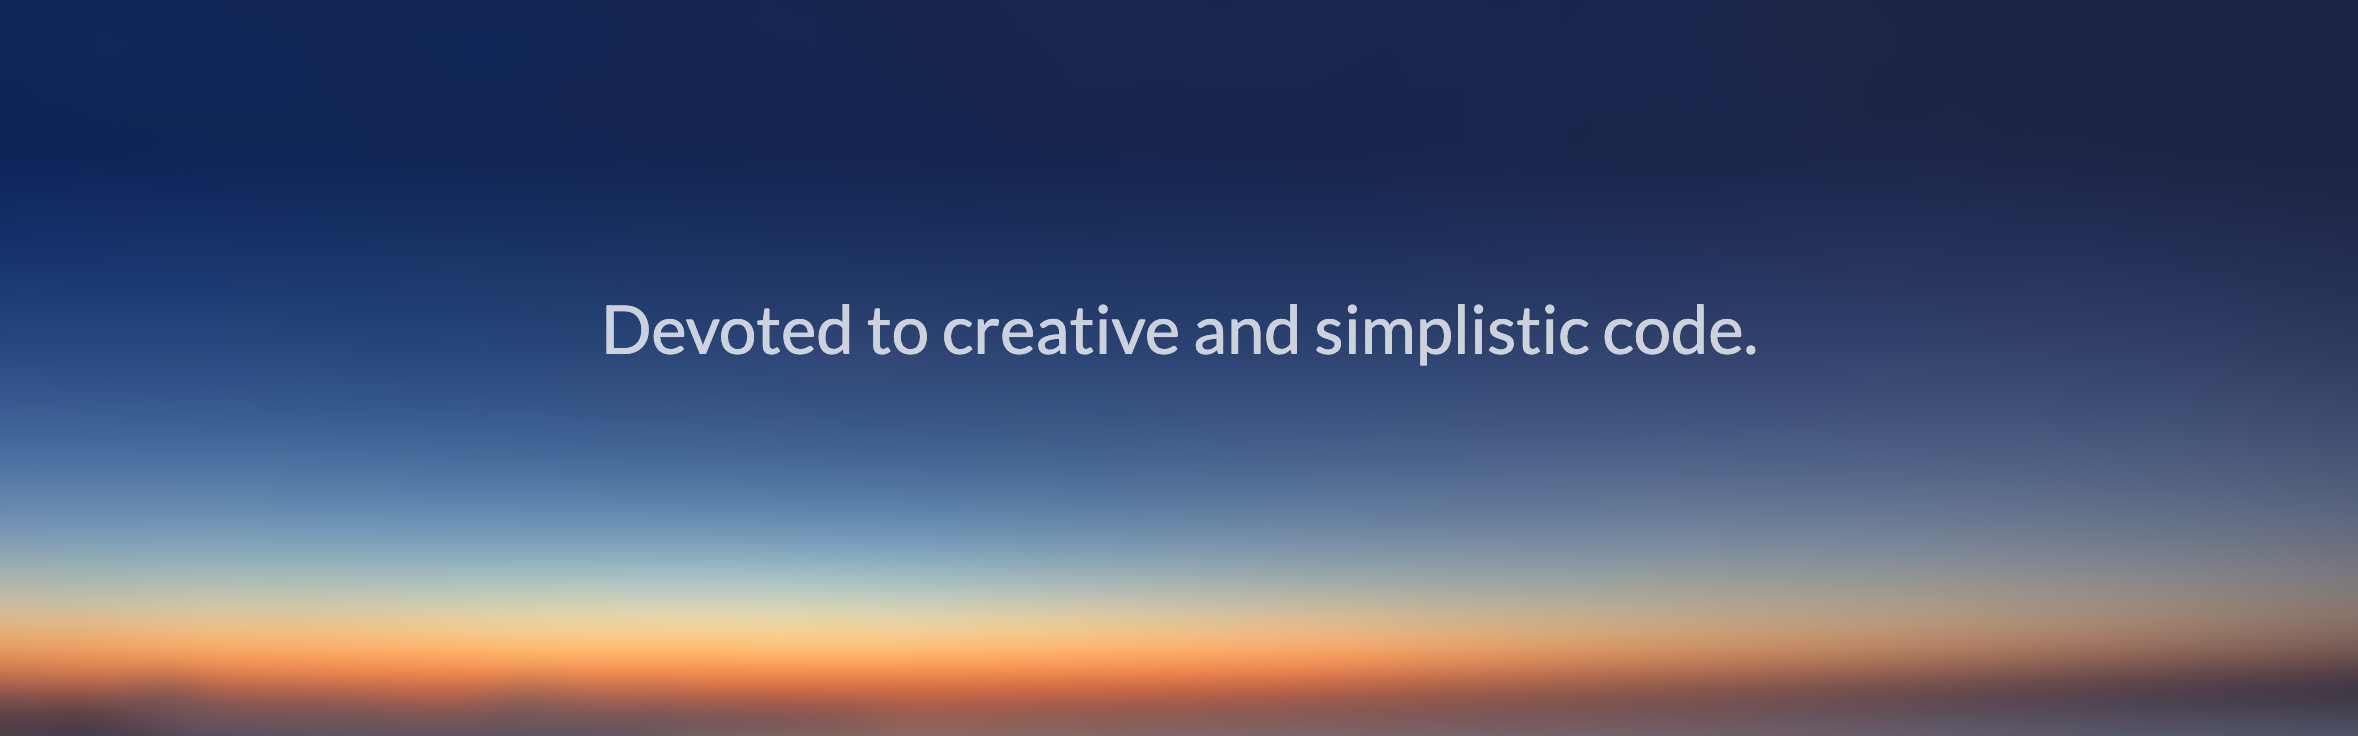
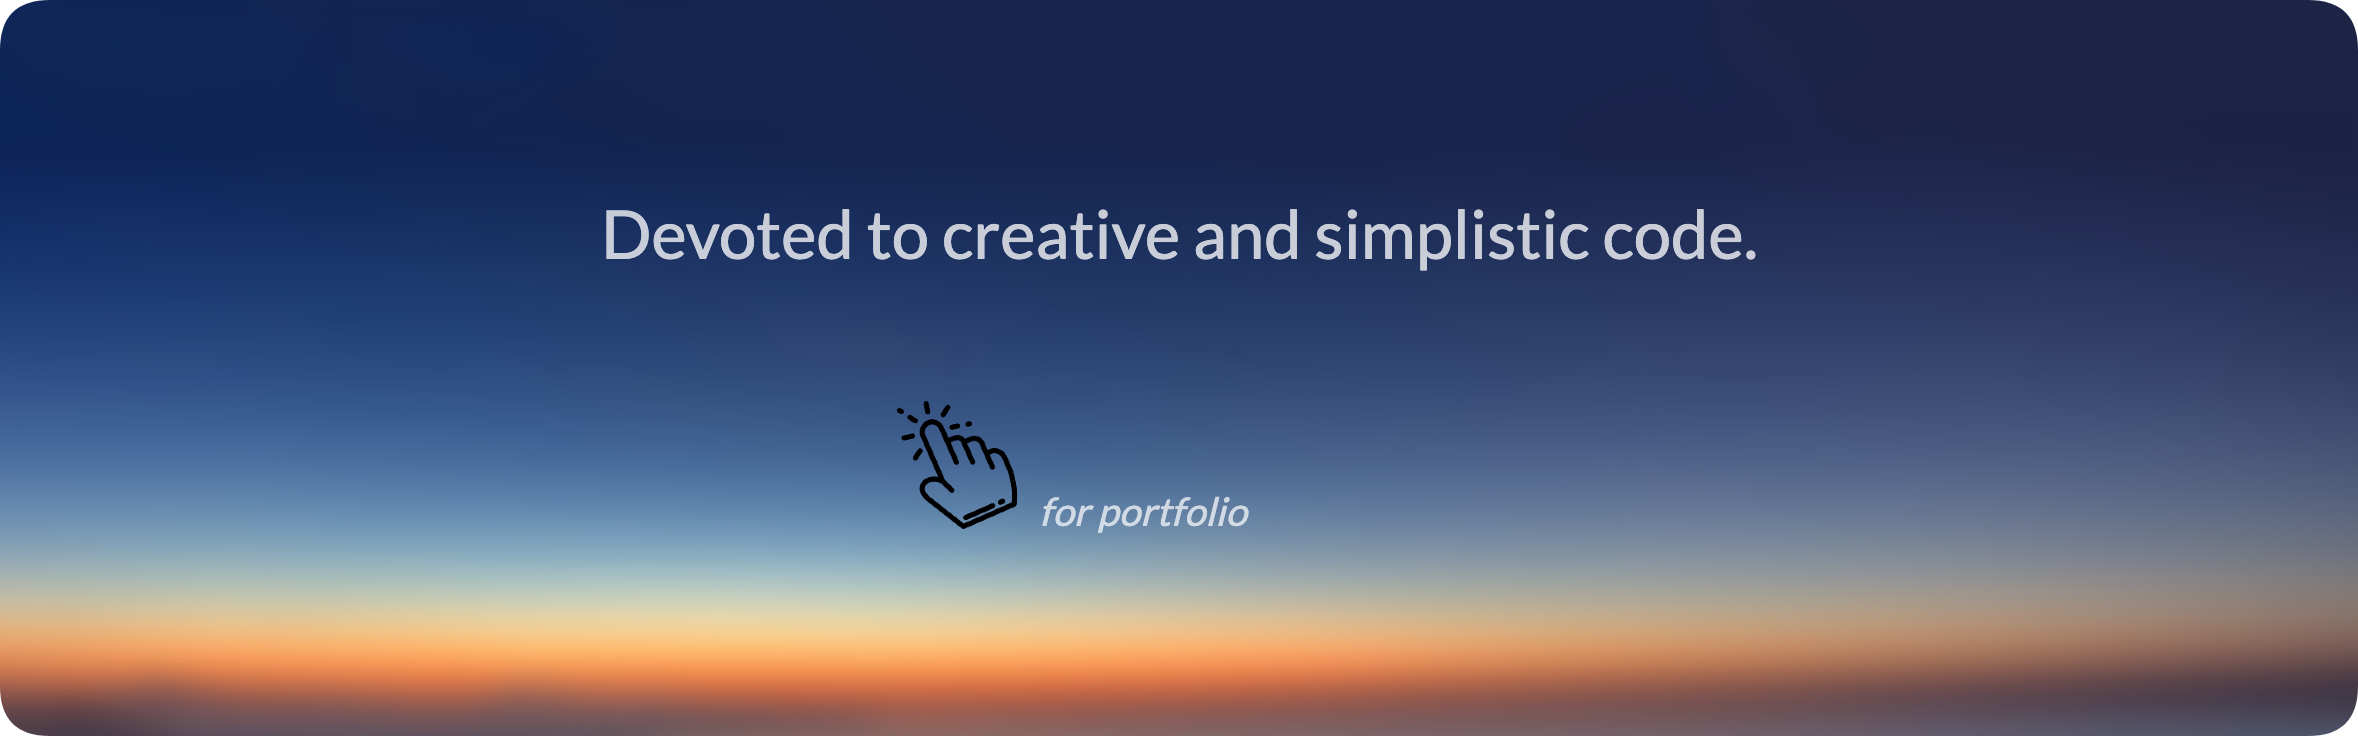
Ready for deployment

diff --git a/README.md b/README.md
@@ -5,6 +5,3 @@
 ![README](./img/cover.png)
 
 I am a Junior Software Developer. For me learning new technologies and a passion for front end development is what made me go into this industry. Orderliness and creativity are some of my traits. For my future I want to be recognised highly for my skills in the industry.
-
-Check out my personal portfolio - [kasjanhinc.com](https://kasjanhinc.com/)
-
